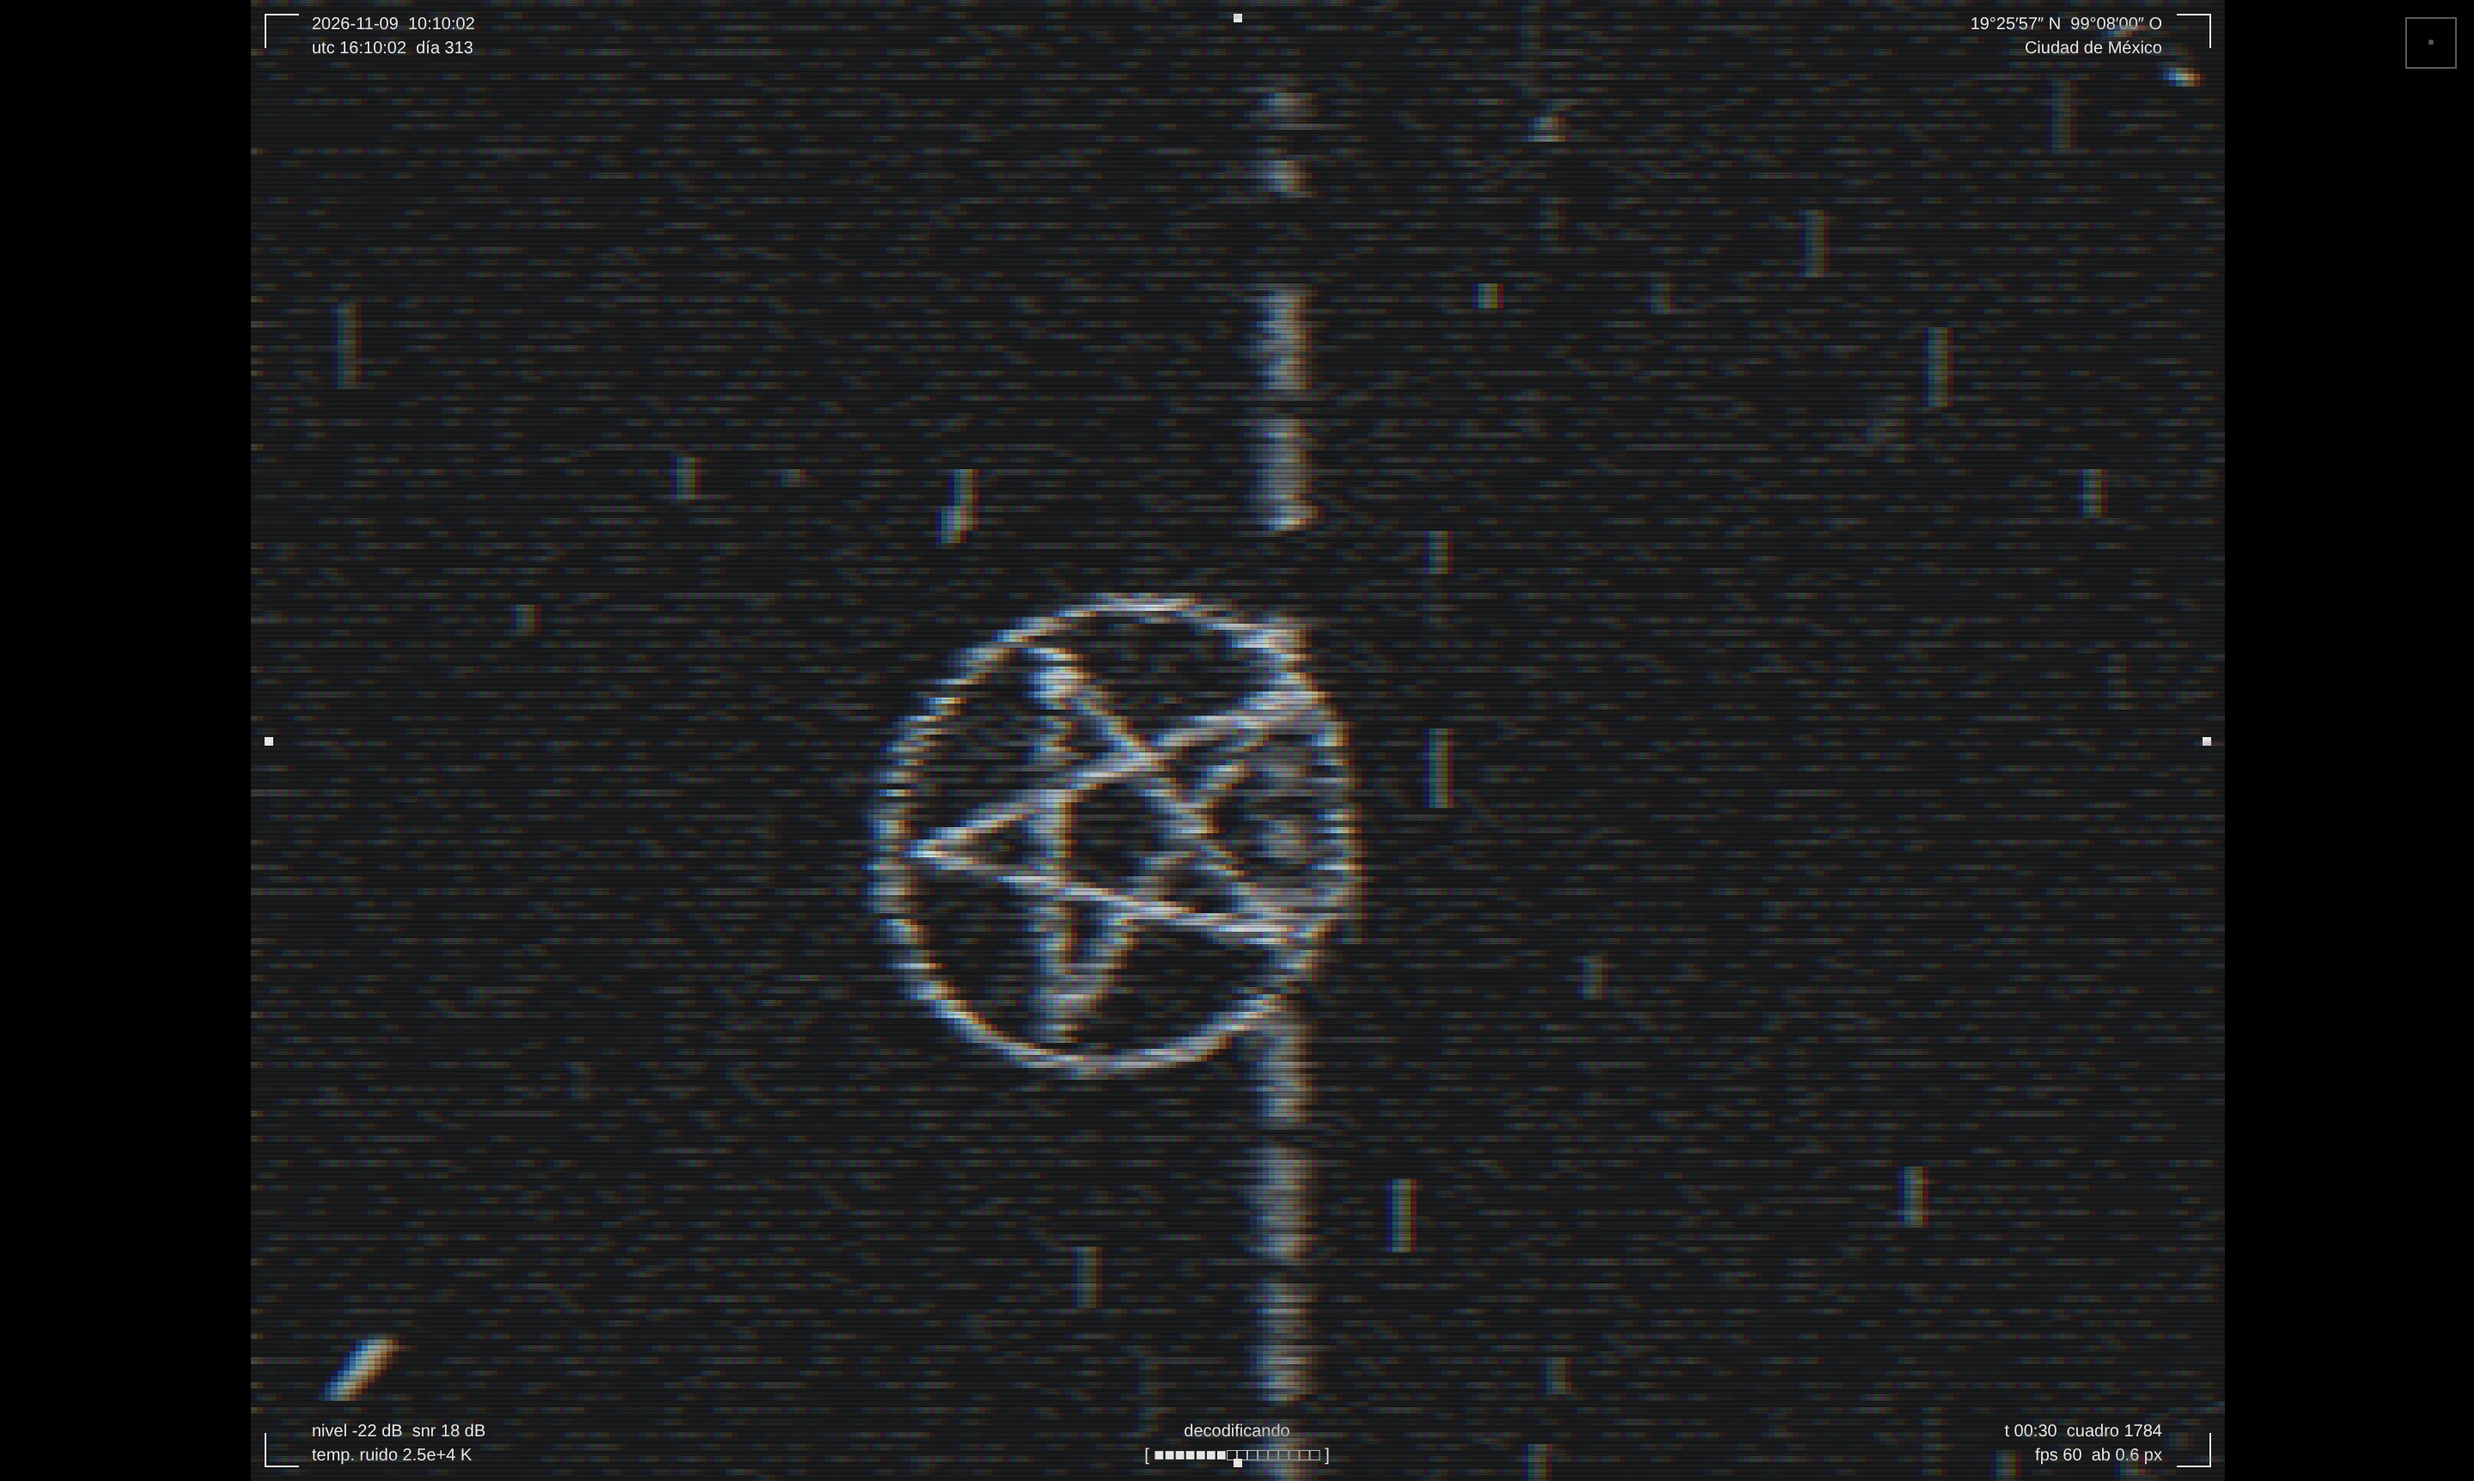
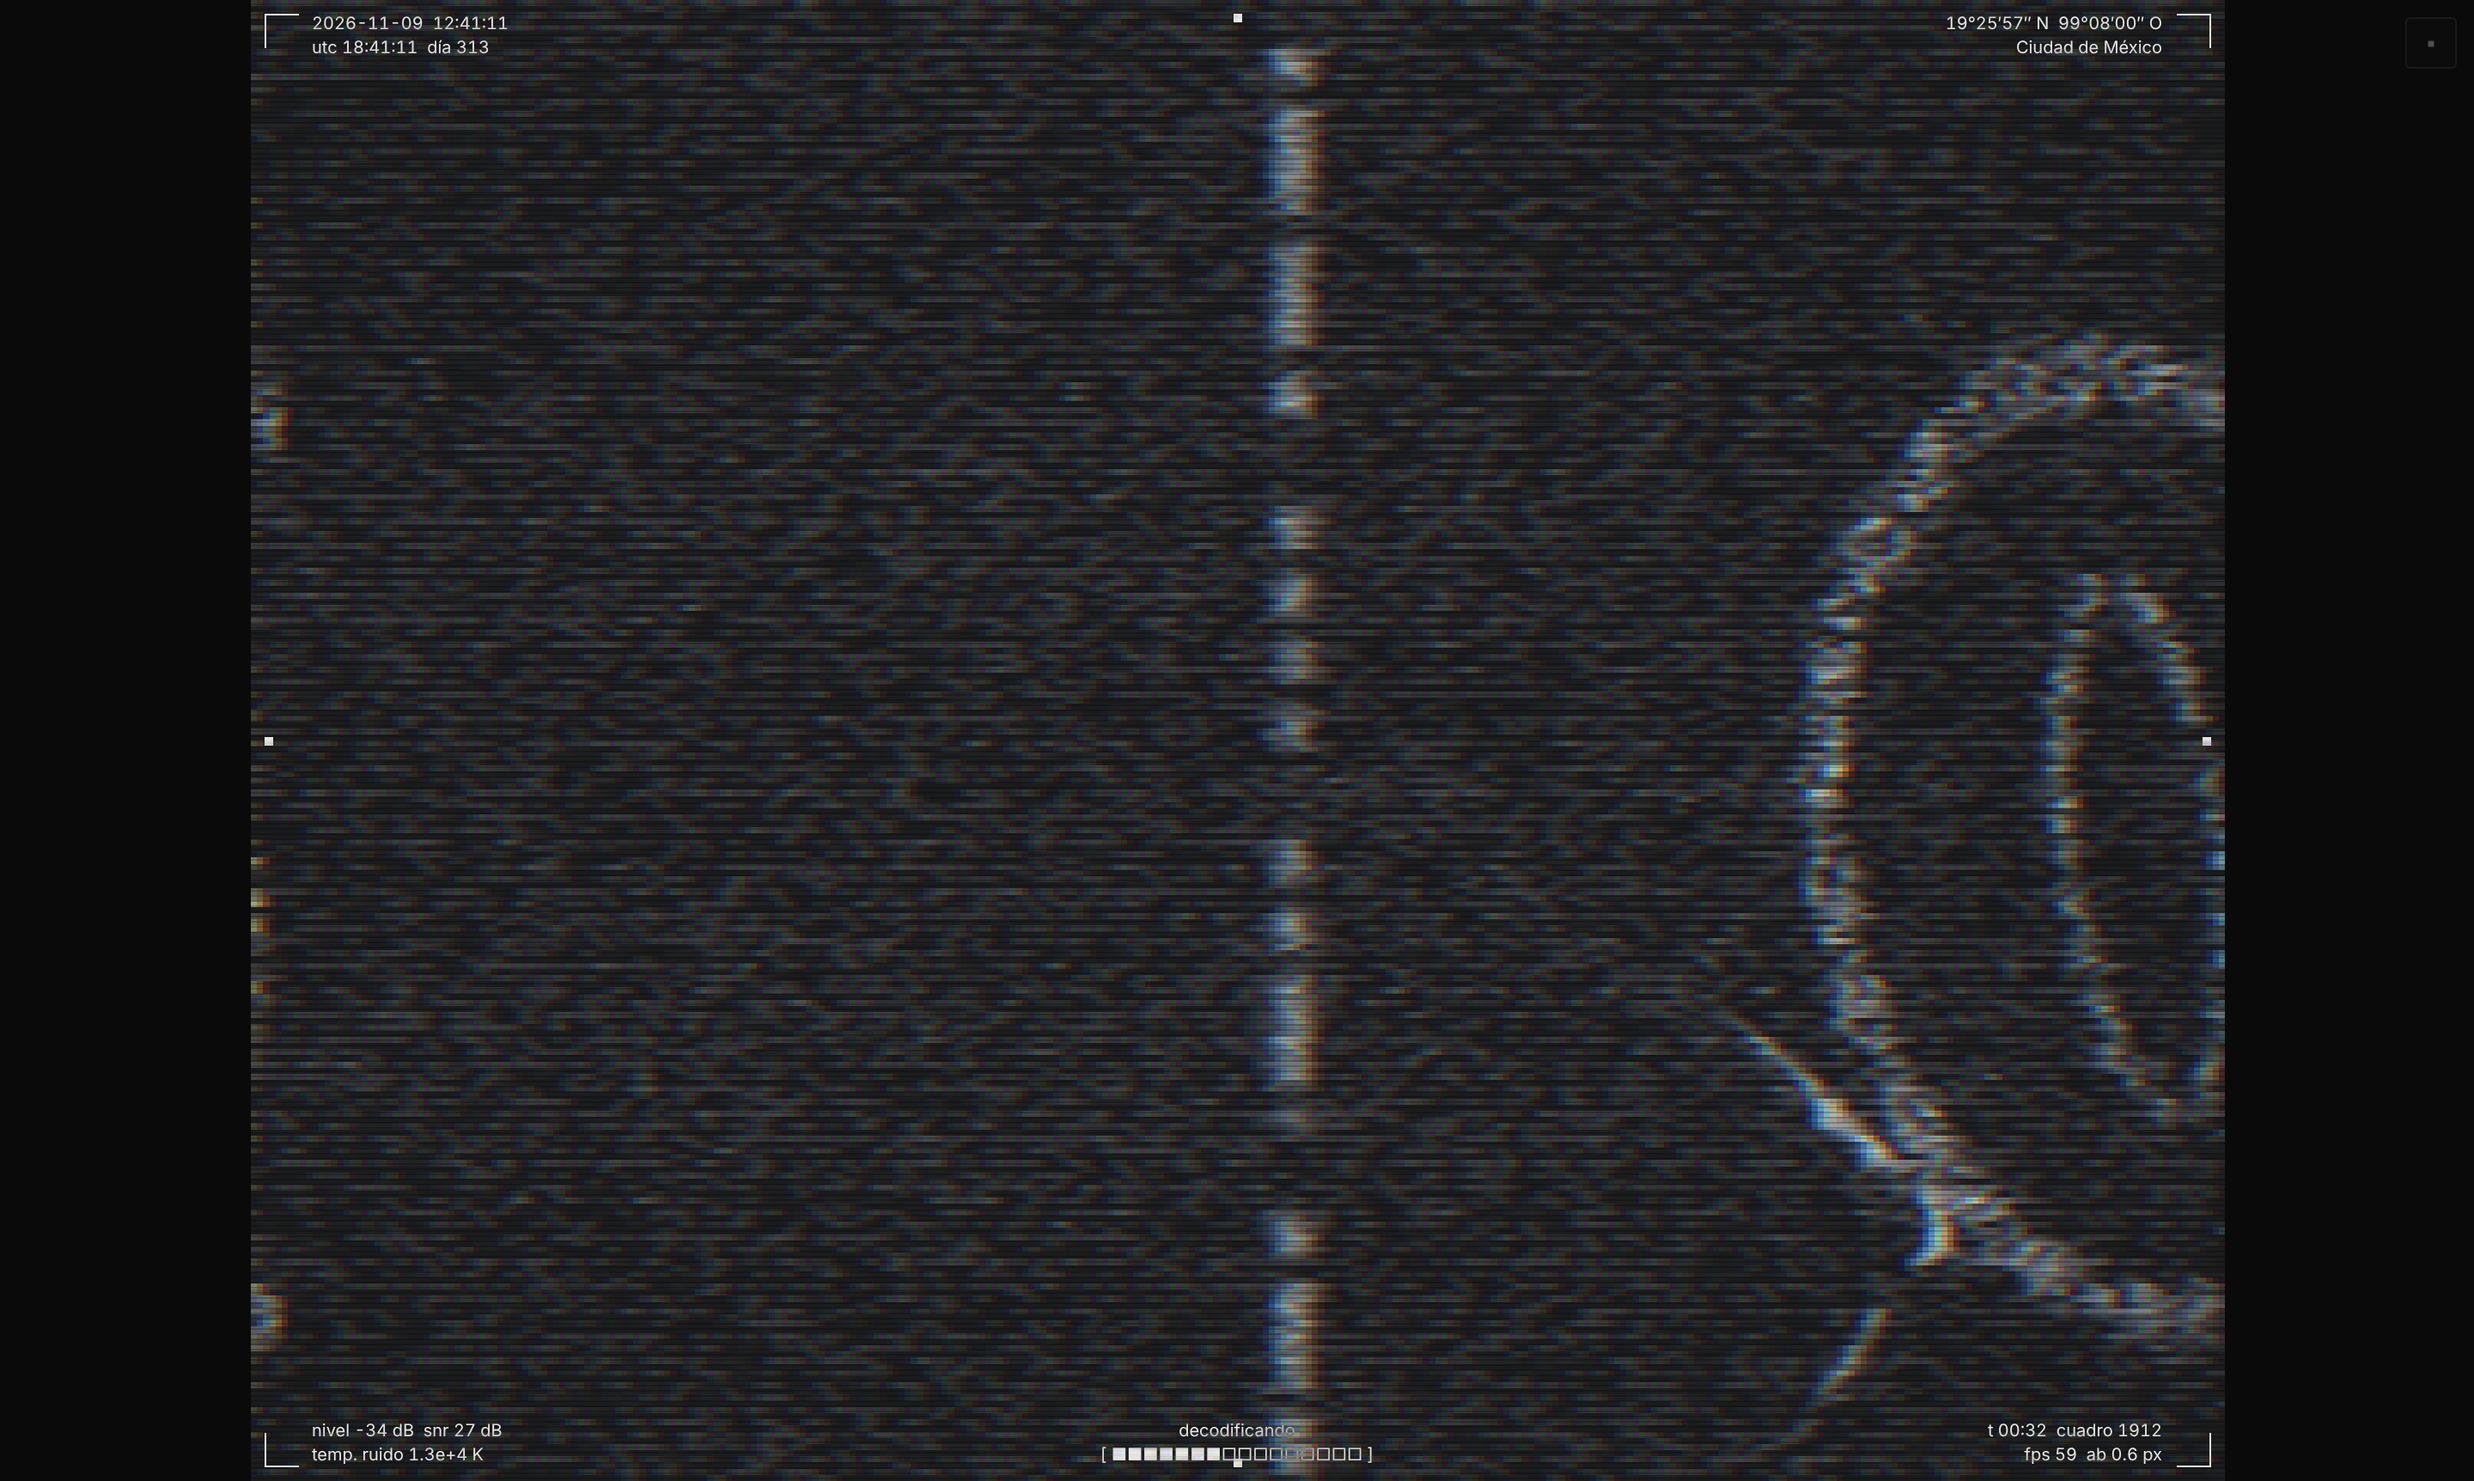
Capturas actualizadas con la versión actual
Claude-Session: https://claude.ai/code/session_01BnGbnZn9TsuobG3mxSBJ2a

diff --git a/README.md b/README.md
@@ -2,7 +2,7 @@
 
 **Versión 020 (v020)** · Héctor Cruz Juárez · Alchemy of Meaning
 
-![Una figura cruza el cuadro hecha de partículas sobre la cascada del espectro, con el marco de datos de la escucha](docs/capturas/03-escena.png)
+![Un anillo de partículas se voltea al cruzar el cuadro, sobre la cascada del espectro y con el marco de datos de la escucha](docs/capturas/03-escena.png)
 
 ## Español
 
@@ -18,11 +18,11 @@ Nació de la escucha con un receptor Belka DX y de la memoria de los grandes rad
 
 **Cada figura pasa una sola vez.** Aparece, flota por un camino curvo, gira sobre su eje y se voltea sobre los otros dos, y se deshace al salir, como la onda que se está escuchando. Mientras una se va, la siguiente llega. Un catálogo de más de mil formas base dibujadas en el momento: no descarga imágenes.
 
-![Una espiral cruza el cuadro mientras se voltea](docs/capturas/04-escena-paso.png)
+![Una figura se adelgaza hasta ser una línea mientras gira y cruza el cuadro](docs/capturas/04-escena-paso.png)
 
 **El espectro dentro de la imagen.** Lo que suena se escribe en la imagen y avanza con el tiempo, en cascada, horizonte o anillo. Las partículas sueltas nacen en las frecuencias que suenan y viajan con él. Encima, película HP5, motion blur, aberración cromática y un marco de datos con hora, coordenadas, nivel, señal/ruido y temperatura de ruido.
 
-![Anillos concéntricos que llegan desde la señal](docs/capturas/06-escena-anillos.png)
+![Un signo se forma entre la estática cuando la voz se sintoniza](docs/capturas/06-escena-signo.png)
 
 **Composición.** Una capa sonora procedural escucha la radio y le responde: las alturas que se oyen con claridad fijan la tónica de un bordón y de acordes lentos, la estática se vuelve viento, los silbidos y el Morse se responden con campanas, la voz recibe notas de cuerda, y los fragmentos claros se guardan y vuelven lentos y lejanos. Tres modos: escucha, acompañar y componer.
 
